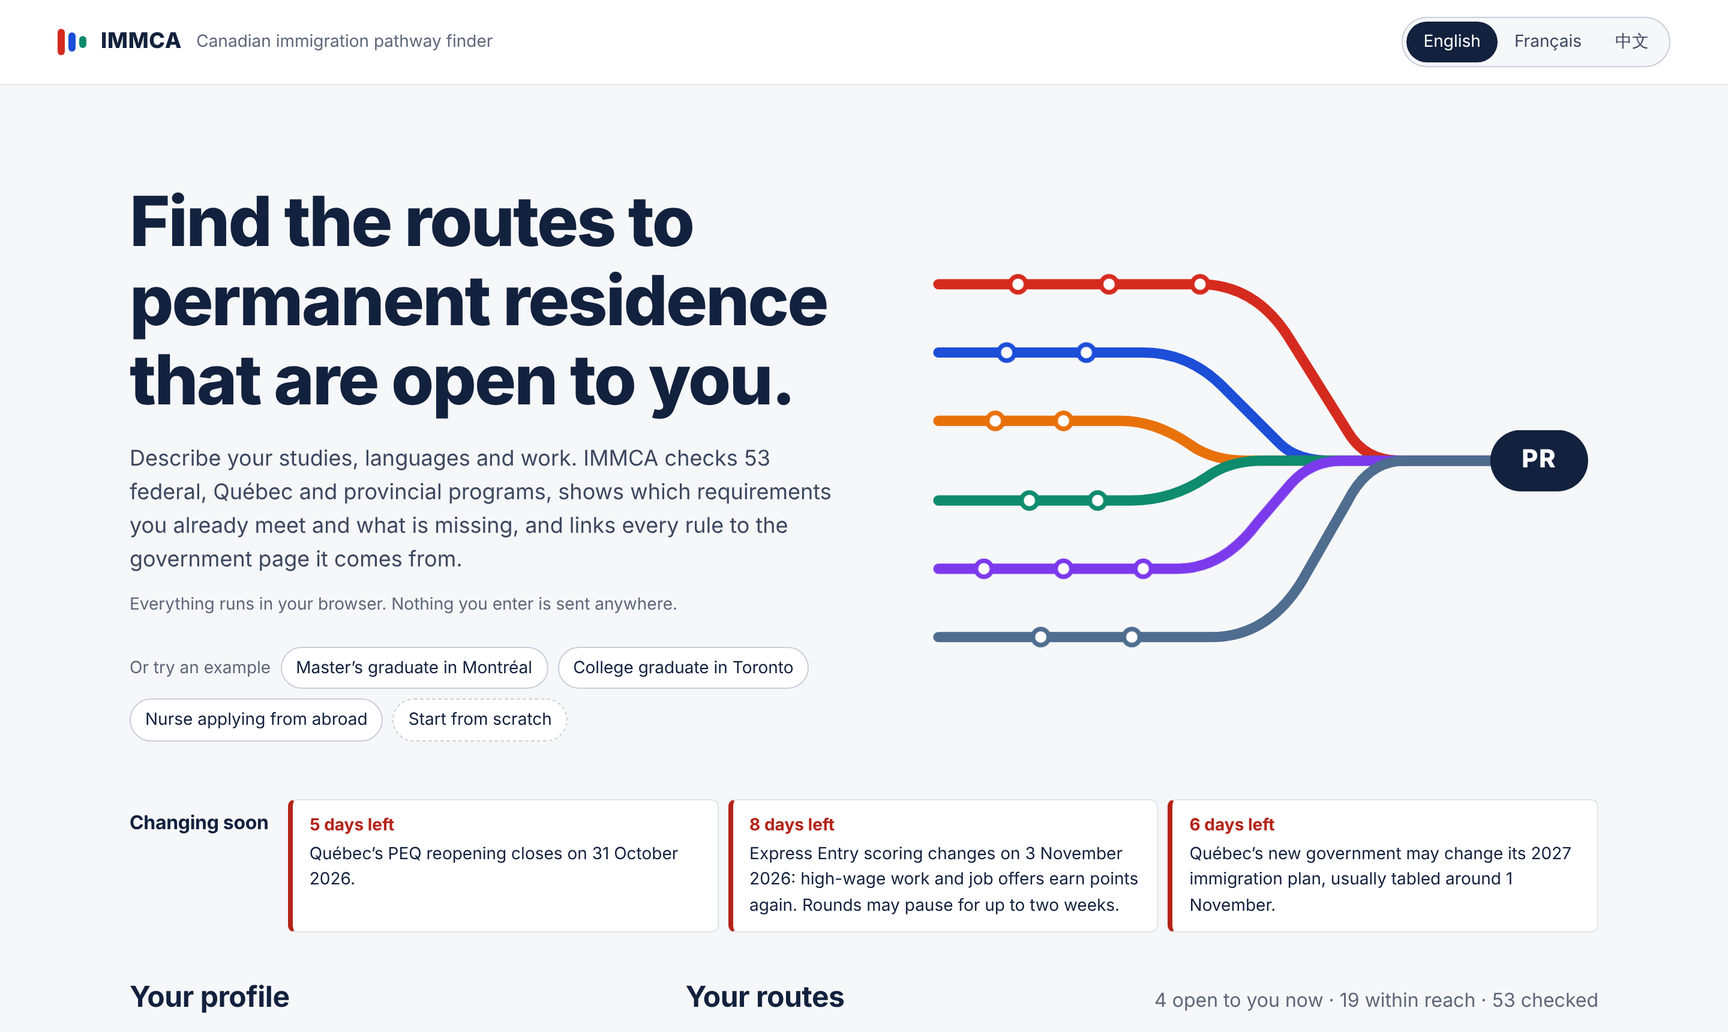
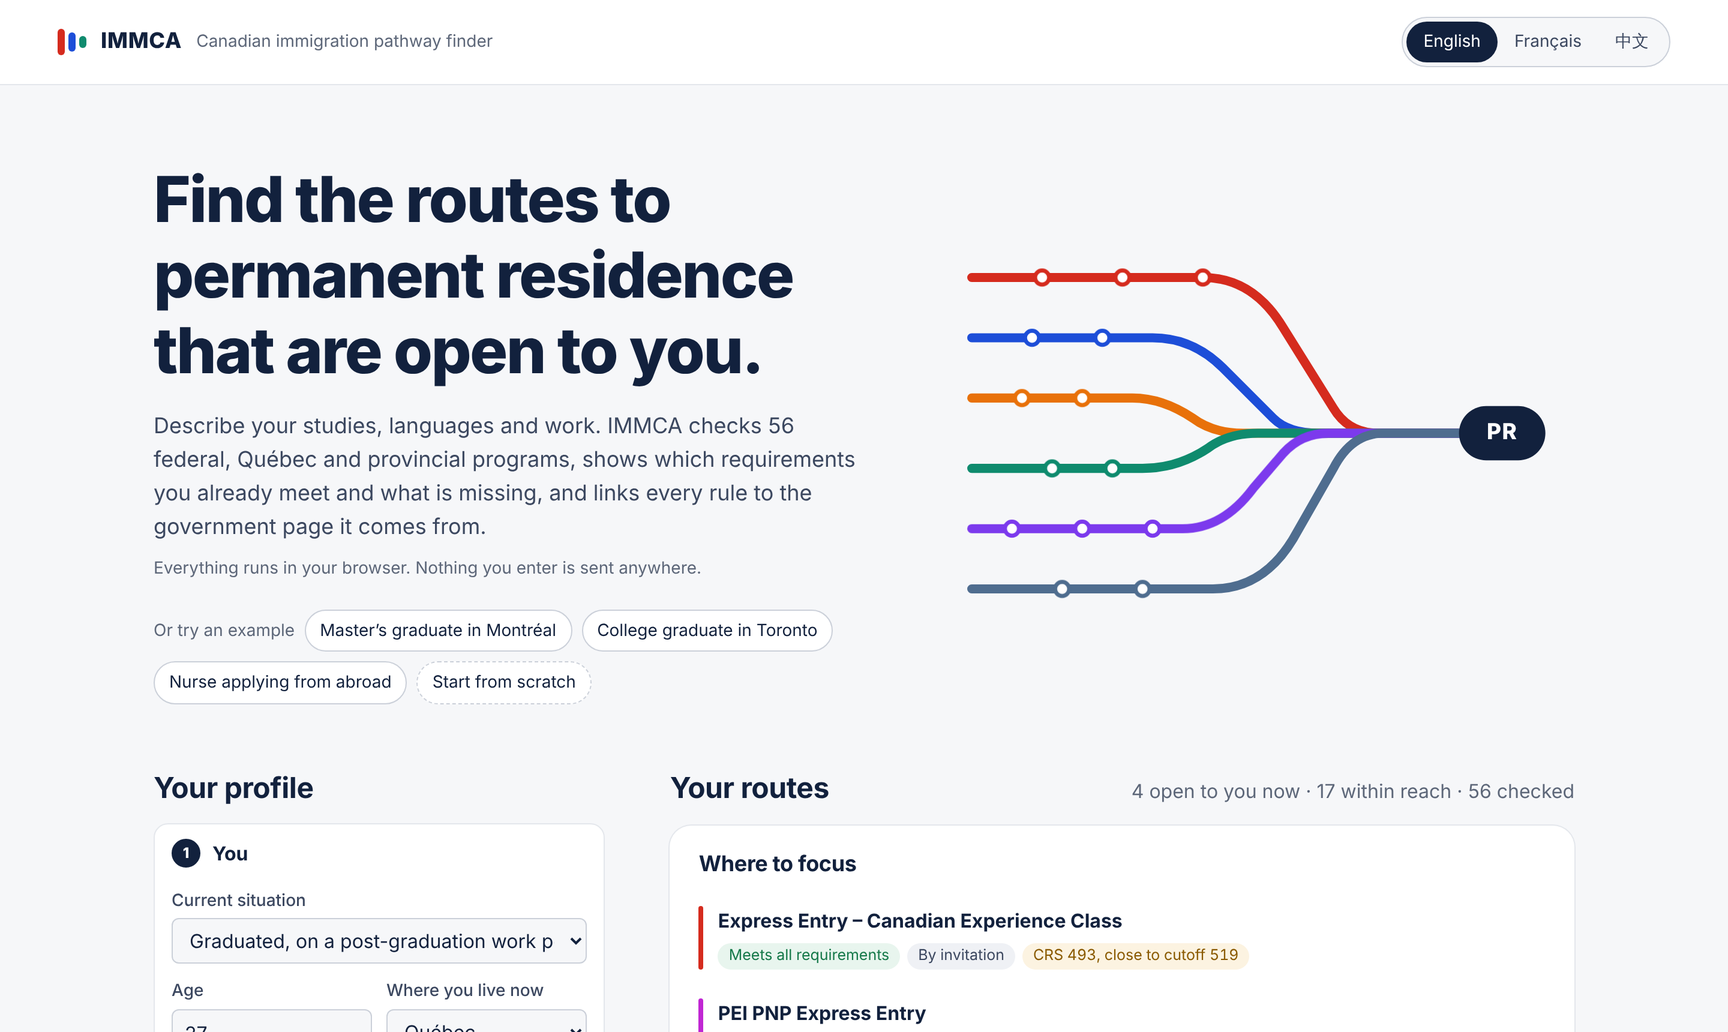
docs: v0.2.0 notes, README and contributing for daily monitor; tidy round names and form summaries

diff --git a/tests/draws.test.ts b/tests/draws.test.ts
@@ -46,3 +46,12 @@ describe('refresh script', () => {
     expect(() => normalize({ rounds: [{ ...round(1), dd18: '9999' }] }, 'x')).toThrow(/add up/);
   });
 });
+
+describe('round names', () => {
+  it('strips the version suffix with or without brackets', () => {
+    const base = { drawNumber: '1', drawDate: '2026-10-27', drawSize: '1', drawCRS: '400', drawDistributionAsOn: 'October 25, 2026',
+      dd1: '1', dd2: '0', dd4: '0', dd5: '0', dd6: '0', dd7: '0', dd8: '0', dd10: '0', dd11: '0', dd12: '0', dd13: '0', dd14: '0', dd15: '0', dd16: '0', dd17: '0', dd18: '1' };
+    expect(normalize({ rounds: [{ ...base, drawName: 'French-Language proficiency 2026-Version 2' }] }, 'x').rounds[0].type).toBe('French-Language proficiency');
+    expect(normalize({ rounds: [{ ...base, drawName: 'Trades (2026-Version 3)' }] }, 'x').rounds[0].type).toBe('Trades');
+  });
+});

diff --git a/src/i18n/fr.ts b/src/i18n/fr.ts
@@ -287,7 +287,7 @@ export const fr: Record<string, string> = {
   'score.details': 'Détail du pointage et rondes récentes',
   'results.allRoutes': 'Toutes les voies',
   'app.lastCheck': 'Pages officielles vérifiées automatiquement le {date} ({n} sur {total} accessibles).',
-  'form.sumWork': '{months} mois de travail au Canada · {n} entrées',
+  'form.sumWork': 'Travail au Canada : {months} mois · emplois saisis : {n}',
   'form.sumOffer': 'Offre d’emploi : {where} (FEER {teer})',
   'form.sumNoOffer': 'Pas d’offre d’emploi',
   'form.sumFamily': 'Famille de {n} · {funds} $',

diff --git a/src/i18n/en.ts b/src/i18n/en.ts
@@ -294,7 +294,7 @@ export const en: Record<string, string> = {
   'score.details': 'Score breakdown and recent rounds',
   'results.allRoutes': 'All routes',
   'app.lastCheck': 'Official pages last checked automatically on {date} ({n} of {total} reachable).',
-  'form.sumWork': '{months} months of work in Canada · {n} entries',
+  'form.sumWork': 'Work in Canada: {months} months · jobs listed: {n}',
   'form.sumOffer': 'Job offer in {where} (TEER {teer})',
   'form.sumNoOffer': 'No job offer',
   'form.sumFamily': 'Family of {n} · ${funds}',

diff --git a/src/ui/ProfileForm.tsx b/src/ui/ProfileForm.tsx
@@ -109,6 +109,7 @@ export function ProfileForm({ state, set }: { state: FormState; set: Set }) {
             onChange={(currentProvince) => set({ currentProvince })}
           />
           <SelectField
+            wide
             label={t('form.intendedProvince')}
             value={state.intendedProvince}
             options={[{ value: 'any' as const, label: t('form.anywhere') }, ...provinceOptions]}

diff --git a/README.md b/README.md
@@ -8,7 +8,7 @@
 
 [![CI](https://github.com/EllenSyuu/IMMCA/actions/workflows/ci.yml/badge.svg)](https://github.com/EllenSyuu/IMMCA/actions/workflows/ci.yml)
 [![Deploy](https://github.com/EllenSyuu/IMMCA/actions/workflows/pages.yml/badge.svg)](https://github.com/EllenSyuu/IMMCA/actions/workflows/pages.yml)
-[![Express Entry data](https://github.com/EllenSyuu/IMMCA/actions/workflows/refresh-draws.yml/badge.svg)](https://github.com/EllenSyuu/IMMCA/actions/workflows/refresh-draws.yml)
+[![Daily update](https://github.com/EllenSyuu/IMMCA/actions/workflows/daily.yml/badge.svg)](https://github.com/EllenSyuu/IMMCA/actions/workflows/daily.yml)
 ![Licence](https://img.shields.io/badge/licence-Apache--2.0-12213d)
 ![Languages](https://img.shields.io/badge/UI-English%20%C2%B7%20Fran%C3%A7ais%20%C2%B7%20%E4%B8%AD%E6%96%87-1d4ed8)
 ![Rules verified](https://img.shields.io/badge/rules%20verified-2026--10--27-0f8b6e)
@@ -26,16 +26,19 @@ IMMCA turns that into one question: *given my studies, languages and work, which
 ## What it does
 
 - **Screens 56 programs** — Express Entry (CEC, FSW, FST and every 2026 category draw), the Atlantic, rural and francophone pilots, Québec's PSTQ and PEQ, and the nominee streams of all twelve provinces and territories that run one.
+- **Answers first.** A short summary names the routes worth pursuing, the single requirement blocking the nearest one, and the dates that matter to you.
+- **Keeps four questions apart** that a single green light would blur: do you *meet the rules*, is the program *open* (or are its 2026 spaces nearly gone), how *competitive* are you where an official cutoff exists, and how *solid is the evidence* behind the rule (verified, approximated, unconfirmed, or the official page changed and is under review).
 - **Shows each program as a transit line.** Every requirement is a station: filled when you meet it, hollow when you don't, dashed when it can't be judged from a form (a community recommendation, a regulator's licence). Open a line to see each station, how to close each gap, and the official sources.
-- **Calculates your CRS under both rule sets** — the grid in force today and the Labour Market Integration factor that starts on 3 November 2026 — and ranks the single changes that would raise it most.
-- **Places your score in the real Express Entry pool** using IRCC's published distribution of 228,724 candidates, refreshed weekly from IRCC's own feed.
+- **Scenario lab.** One change at a time — NCLC 7 in French, another year of Canadian work, a job offer, a nomination — with the CRS effect *and* the routes it would open.
+- **Calculates your CRS under both rule sets** — the grid in force today and the Labour Market Integration factor that starts on 3 November 2026.
+- **Places your score in the real Express Entry pool** using IRCC's published distribution of 228,724 candidates, refreshed daily from IRCC's own feed.
 - **Estimates your Arrima score** for Québec's PSTQ from the ministry's 1,400-point grid.
 - **Converts raw test scores** (IELTS, CELPIP, PTE Core, TEF Canada on both of its scales, TCF Canada) to CLB/NCLC and to the Québec French scale, so people can type what is on their result sheet.
 - **Runs entirely in the browser**, in English, French or Chinese. Nothing anyone types leaves their device.
 
 <table>
 <tr>
-<td width="68%"><img src="docs/images/results.png" alt="Profile form beside the results: an Express Entry score of 493 with breakdown bars, a strip placing the score within the pool, levers that would raise it, and the Canadian Experience Class shown as an open route with its requirements"></td>
+<td width="68%"><img src="docs/images/results.png" alt="Collapsed profile steps beside the results: a 'Where to focus' summary with three routes, a scenario lab, the Express Entry score placed in the pool, and route rows showing eligibility, availability, competitiveness and evidence"></td>
 <td width="32%"><img src="docs/images/mobile-zh.png" alt="The results on a phone, in Chinese"></td>
 </tr>
 </table>
@@ -48,12 +51,15 @@ flowchart LR
     F[Profile form<br/>raw test scores] -->|toProfile| P[Profile]
     P --> E{{Rules engine}}
     R[(Program registry<br/>56 specs · 49 official sources)] --> E
-    E --> V[Ranked results<br/>verdict + stations + hints]
+    E --> V[Results<br/>eligibility · availability ·<br/>competitiveness · evidence]
+    V --> S[Decision summary<br/>+ scenario lab]
+    M[(source-status.json)] --> V
     P --> C[CRS calculator<br/>2 rule sets by date]
     P --> A[Arrima estimate]
     D[(draws.json<br/>rounds + pool distribution)] --> C
   end
-  I[IRCC rounds feed] -->|weekly GitHub Action<br/>validated refresh| D
+  I[IRCC rounds feed] -->|daily GitHub Action<br/>validated refresh| D
+  G[49 official pages] -->|daily GitHub Action<br/>text diff| M
 ```
 
 ### Rules as data
@@ -84,7 +90,10 @@ Immigration rules have dates, so the engine does too:
 
 - **Date-switched scoring.** `computeCrs(profile, date)` applies the 2025-03-25 grid before 3 November 2026 and the Labour Market Integration factor from that day, using IRCC's list of 186 high-wage occupations.
 - **Closing dates.** A program with `closesOn` (the PEQ: 31 October 2026) turns into *closed* by itself the next day. The PEQ's snapshot rule — the diploma must already have existed on 19 November 2025 — is evaluated against the current date.
-- **Weekly data refresh.** [`scripts/refresh-draws.mjs`](scripts/refresh-draws.mjs) pulls IRCC's rounds feed, validates its shape and checks that the pool distribution adds up before writing anything; a changed feed fails loudly instead of shipping bad numbers.
+- **Daily, automatic updates — no push needed.** Every morning [`daily.yml`](.github/workflows/daily.yml) runs on GitHub:
+  - [`scripts/refresh-draws.mjs`](scripts/refresh-draws.mjs) pulls IRCC's rounds feed, validates its shape and checks that the pool distribution adds up before writing anything; a changed feed fails loudly instead of shipping bad numbers.
+  - [`scripts/check-sources.ts`](scripts/check-sources.ts) fetches every official page a rule cites, reduces it to readable text and compares it with the text the rule was verified against. It never rewrites a rule by itself: a changed page marks the program *Official page changed* on the site and opens a GitHub issue, and the commit shows the exact text diff under `monitor/snapshots/`.
+  - The site is rebuilt and redeployed, so the "last checked" date in the footer is always today's.
 
 ### Honest about uncertainty
 
@@ -116,9 +125,10 @@ Nunavut has no nominee program. Business and investor streams are out of scope.
 ```bash
 npm install
 npm run dev            # http://localhost:5173
-npm test               # 52 tests: CRS tables, conversions, time windows, programs, audit regressions, translations
+npm test               # 64 tests: CRS tables, conversions, time windows, programs, audit regressions, monitor, translations
 npm run build          # static site in dist/ — deployed to GitHub Pages on every push to main
 npm run refresh:draws  # pull the latest Express Entry rounds from IRCC
+npm run sources:check  # check every official page for changes
 ```
 
 ```
@@ -127,7 +137,9 @@ src/
   data/
     programs/        federal.ts · quebec.ts · east.ts · west.ts — one spec per program, with sources
     highWage.ts      NOC tiers for the 2026-11-03 CRS factor
-    draws.json       Express Entry rounds and pool distribution (refreshed weekly)
+    insights.ts      the four dimensions, decision summary and scenario lab
+    draws.json       Express Entry rounds and pool distribution (refreshed daily)
+    source-status.json  state of every official page (updated daily)
   i18n/              en · fr · zh dictionaries (a test enforces identical keys and placeholders)
   ui/                React components: profile form, score panel, route cards
 tests/               Vitest suites

diff --git a/docs/releases/v0.2.0.md b/docs/releases/v0.2.0.md
@@ -1,0 +1,26 @@
+IMMCA v0.2.0 makes results easier to act on and keeps the site current every day without anyone pushing a change.
+
+**Live site:** https://ellensyuu.github.io/IMMCA/
+
+## Clearer results
+
+- **Answer first.** A "Where to focus" summary names up to three routes worth pursuing, the one requirement blocking the nearest route, and the dates that matter to you.
+- **Four dimensions instead of one label.** Each route now shows separately whether you meet the rules, whether it is open (or its 2026 spaces are limited or used up), how you compare with the latest official cutoff where one exists, and how solid the evidence is (verified, approximated, unconfirmed, or official page changed).
+- **Scenario lab.** See what one change at a time — NCLC 7 in French, another year of Canadian work, a job offer, a nomination — does to your CRS and which routes it opens.
+- **A calmer page.** Profile steps collapse into one-line summaries, the score card shows the score and your place in the pool with details on demand, and route rows are reduced to the transit line and three short pills.
+
+## Updated automatically every day
+
+- Express Entry rounds and the CRS pool distribution refresh daily from IRCC's feed.
+- Every official page cited by a rule is checked daily. A change flags the affected programs on the site and opens a GitHub issue with the exact text diff; rules are never rewritten automatically.
+- The site redeploys every morning, so the "last checked" date is always current.
+
+## Corrections from a second verification against official pages
+
+- Newfoundland and Labrador rounds continued after March; the latest is 2026-10-16 (126 invitations).
+- Express Entry round #452 (2026-10-27, French proficiency, 5,000 at CRS 407) added.
+- Alberta Express Entry shown as "limited spaces" rather than "used up": priority-sector draws continue.
+- Ontario's regional initiative for six Northern and Eastern communities (from 2026-10-16) noted.
+- PEI draw dates marked as a reported schedule.
+
+64 tests, including the new dimensions, decision summary, scenario lab and source-monitor logic.

diff --git a/CONTRIBUTING.md b/CONTRIBUTING.md
@@ -1,5 +1,15 @@
 # Updating a rule
 
+## When the daily monitor flags a page
+
+Every morning the daily workflow checks all official pages. When one changes it opens an issue labelled `source-change`, and the site shows *Official page changed* on every program that cites it.
+
+1. Open the latest `data: daily update` commit and read the diff under `monitor/snapshots/` — it is the page's text before and after.
+2. If a rule changed, edit the program spec (steps below). If the change is cosmetic, nothing to edit.
+3. Run `npm run sources:accept -- <url>` (or `-- all`) to accept the new text as the baseline, commit, and close the issue.
+
+## Changing a rule
+
 Immigration programs change often. Keeping IMMCA correct matters more than adding programs, so every change follows the same steps.
 
 1. **Find the official source.** Use the government page itself (canada.ca, quebec.ca, the province's immigration site, the Gazette). News sites and consultants are fine for discovering a change, never as the source of a rule.
